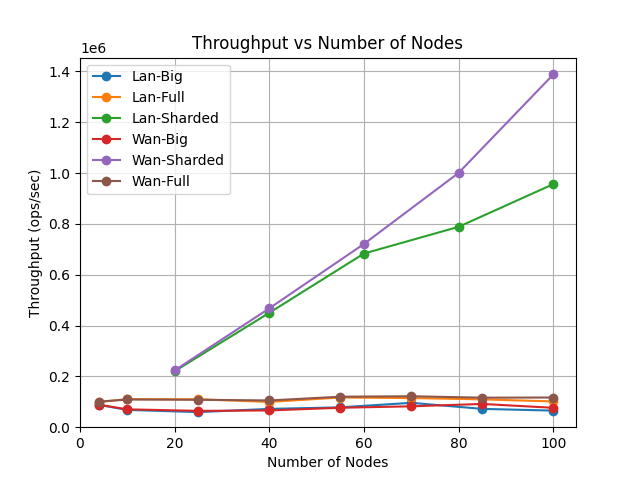
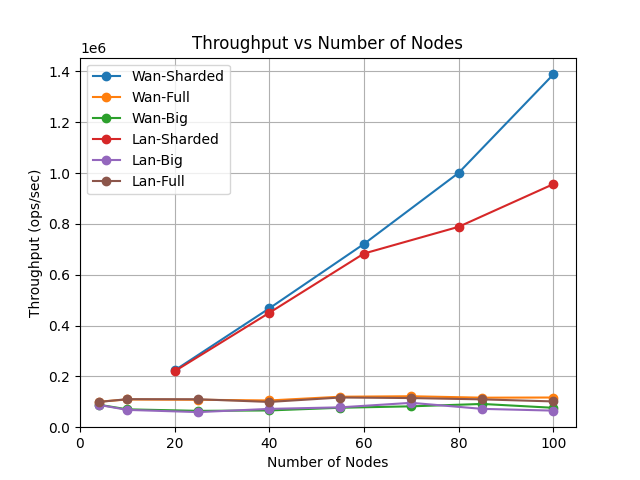
feat(data): nodes tput wan and utxo sharded

diff --git a/control/src/bin/nodes-tput.rs b/control/src/bin/nodes-tput.rs
@@ -2,7 +2,10 @@ use std::{fmt::Write as _, time::Duration};
 
 use big_control::{
     Cluster, Instance, PerformanceMetrics,
-    configs::{APP, NETWORK, NUM_KEYS, Network, READ_RATIO, STORAGE, STRIPE_INTERVAL},
+    configs::{
+        APP, NETWORK, NUM_CONCURRENT, NUM_FAULTY_NODES, NUM_KEYS, NUM_SHARDS, READ_RATIO, STORAGE,
+        STRIPE_INTERVAL, num_nodes,
+    },
     load_all, run_endpoints, scrape_all, start_all, stop_all,
 };
 use big_schema::{Storage, Task};
@@ -13,10 +16,6 @@ use tokio::{
     time::sleep,
     try_join,
 };
-
-fn num_nodes(num_faulty_nodes: u16) -> u16 {
-    3 * num_faulty_nodes + 1
-}
 
 #[derive(Debug)]
 enum Setting {
@@ -40,101 +39,28 @@ async fn main() -> anyhow::Result<()> {
             "n/a".to_string()
         }
     )?;
-    let t = format!("{:?},{:?}", NETWORK, APP);
-    let s = |run: PerformanceMetrics| {
-        format!(
-            "{},{},{}",
-            run.tput,
-            run.p50.as_secs_f64(),
-            run.p99.as_secs_f64(),
-        )
+
+    let setting = match STORAGE {
+        Storage::Full if NUM_SHARDS == 1 => Setting::Full,
+        Storage::Full => Setting::Sharded,
+        Storage::Big => Setting::Big,
     };
 
-    let mut metrics;
-    match (APP, STORAGE) {
-        (big_schema::App::Ycsb, Storage::Full) => {
-            for num_faulty_nodes in [1, 3, 8, 13, 18, 23, 28, 33] {
-                println!(
-                    "running YCSB Full with num_faulty_nodes = {}",
-                    num_faulty_nodes
-                );
-                metrics = run(&cluster, num_faulty_nodes, 1).await?;
-                writeln!(
-                    &mut data,
-                    "{t},{:?},{},{}",
-                    Setting::Full,
-                    num_nodes(num_faulty_nodes),
-                    s(metrics)
-                )?;
-            }
-            for num_shards in [2, 4, 6, 8, 10] {
-                println!("running YCSB Full with num_shards = {}", num_shards,);
-                metrics = run(&cluster, 3, num_shards).await?;
-                writeln!(
-                    &mut data,
-                    "{t},{:?},{},{}",
-                    Setting::Sharded,
-                    num_nodes(3) * num_shards as u16,
-                    s(metrics)
-                )?;
-            }
-        }
-        (big_schema::App::Ycsb, Storage::Big) => {
-            for num_faulty_nodes in [1, 3, 8, 13, 18, 23, 28, 33] {
-                println!(
-                    "running YCSB Big with num_faulty_nodes = {}",
-                    num_faulty_nodes
-                );
-                metrics = run(&cluster, num_faulty_nodes, 1).await?;
-                writeln!(
-                    &mut data,
-                    "{t},{:?},{},{}",
-                    Setting::Big,
-                    num_nodes(num_faulty_nodes),
-                    s(metrics)
-                )?;
-            }
-        }
-        (big_schema::App::Utxo, Storage::Full) => {
-            for num_faulty_nodes in [1, 3, 8, 13, 18, 23, 28, 33] {
-                println!(
-                    "running UTXO Full with num_faulty_nodes = {}",
-                    num_faulty_nodes
-                );
-                metrics = run(&cluster, num_faulty_nodes, 1).await?;
-                writeln!(
-                    &mut data,
-                    "{t},{:?},{},{}",
-                    Setting::Full,
-                    num_nodes(num_faulty_nodes),
-                    s(metrics)
-                )?;
-            }
-            // TODO sharded UTXO
-        }
-        (big_schema::App::Utxo, Storage::Big) => {
-            for num_faulty_nodes in [1, 3, 8, 13, 18, 23, 28, 33] {
-                println!(
-                    "running UTXO Big with num_faulty_nodes = {}",
-                    num_faulty_nodes
-                );
-                metrics = run(&cluster, num_faulty_nodes, 1).await?;
-                writeln!(
-                    &mut data,
-                    "{t},{:?},{},{}",
-                    Setting::Big,
-                    num_nodes(num_faulty_nodes),
-                    s(metrics)
-                )?;
-            }
-        }
-    }
+    let metrics = run(&cluster, NUM_FAULTY_NODES, NUM_SHARDS).await?;
+    writeln!(
+        &mut data,
+        "{:?},{:?},{:?},{},{},{},{}",
+        NETWORK,
+        APP,
+        setting,
+        num_nodes() * NUM_SHARDS as u16,
+        metrics.tput,
+        metrics.p50.as_secs_f64(),
+        metrics.p99.as_secs_f64(),
+    )?;
 
     create_dir_all("data").await?;
-    let mut data_file = File::create(format!(
-        "data/nodes-tput-{NETWORK:?}-{APP:?}-{STORAGE:?}.csv"
-    ))
-    .await?;
+    let mut data_file = File::create(format!("data/nodes-tput-scratch.csv")).await?;
     data_file.write_all(data.as_bytes()).await?;
     Ok(())
 }
@@ -155,8 +81,6 @@ async fn run(
     let workload = run_workload(
         &cluster.servers[..num_running_nodes as usize],
         &cluster.clients,
-        num_faulty_nodes,
-        num_shards,
     );
     let workload = async {
         let result = workload.await;
@@ -170,21 +94,22 @@ async fn run(
 async fn run_workload(
     server_instances: &[Instance],
     client_instances: &[Instance],
-    num_faulty_nodes: u16,
-    num_shards: u8,
 ) -> anyhow::Result<PerformanceMetrics> {
-    if num_shards > 1 {
+    if NUM_SHARDS > 1 {
         assert!(matches!(STORAGE, Storage::Full));
     }
-    assert_eq!(STRIPE_INTERVAL, Duration::ZERO);
+    assert!(STRIPE_INTERVAL >= Duration::from_hours(1));
 
     let control_client = Client::new();
     println!("wait for servers to boot");
     sleep(Duration::from_millis(2000)).await;
 
-    let shard_size = 2 * num_faulty_nodes + 1;
+    let shard_size = 2 * NUM_FAULTY_NODES + 1;
     assert!(server_instances.len().is_multiple_of(shard_size as usize));
-    let num_shards = (server_instances.len() / shard_size as usize) as _;
+    assert_eq!(
+        server_instances.len(),
+        shard_size as usize * NUM_SHARDS as usize
+    );
 
     let ips = server_instances
         .iter()
@@ -199,13 +124,13 @@ async fn run_workload(
         let shard_index = (i / shard_size as usize) as _;
         let schema = big_schema::ReplicaTask {
             node_index: (i % shard_size as usize) as _,
-            num_shards,
+            num_shards: NUM_SHARDS,
             shard_index,
             ips: ips[shard_index as usize].clone(),
             latencies: NETWORK.to_latencies(),
             config: big_schema::ReplicaConfig {
-                num_nodes: num_nodes(num_faulty_nodes),
-                num_faulty_nodes,
+                num_nodes: num_nodes(),
+                num_faulty_nodes: NUM_FAULTY_NODES,
             },
             storage: STORAGE,
             app: APP,
@@ -223,20 +148,12 @@ async fn run_workload(
         let client_task = big_schema::ClientTask {
             ips: ips.clone(),
             config: big_schema::ClientConfig {
-                num_nodes: num_nodes(num_faulty_nodes),
-                num_faulty_nodes,
+                num_nodes: num_nodes(),
+                num_faulty_nodes: NUM_FAULTY_NODES,
             },
             workload_config: big_schema::ClientWorkloadConfig {
-                num_concurrent: match (NETWORK, STORAGE, num_shards) {
-                    (Network::Lan, Storage::Full, 1) => 1000,
-                    (Network::Lan, Storage::Big, 1) => 1000,
-                    (Network::Lan, Storage::Full, _) => 1000 * num_shards as u32,
-                    (Network::Wan, Storage::Full, 1) => 40_000,
-                    (Network::Wan, Storage::Big, 1) => 60_000,
-                    (Network::Wan, Storage::Full, _) => 30_000 * num_shards as u32,
-                    _ => unimplemented!(),
-                },
-                num_shards,
+                num_concurrent: NUM_CONCURRENT,
+                num_shards: NUM_SHARDS,
                 app: match APP {
                     big_schema::App::Ycsb => {
                         big_schema::WorkloadConfig::Ycsb(big_schema::YcsbWorkloadConfig {
